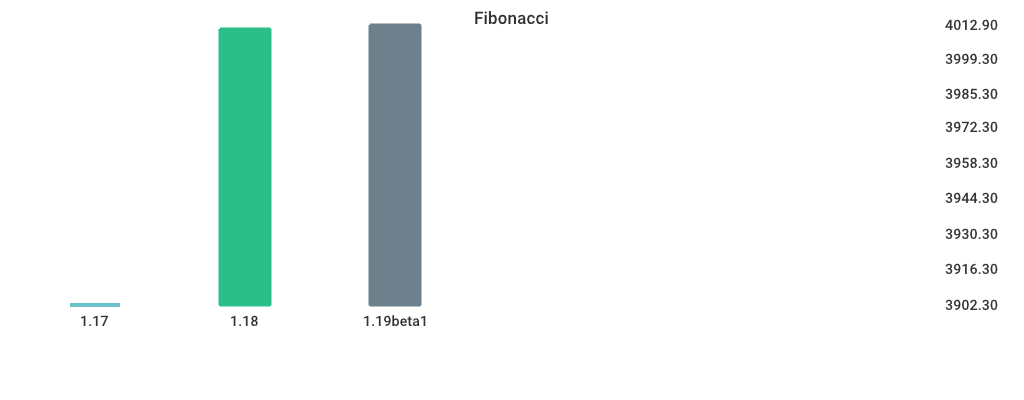
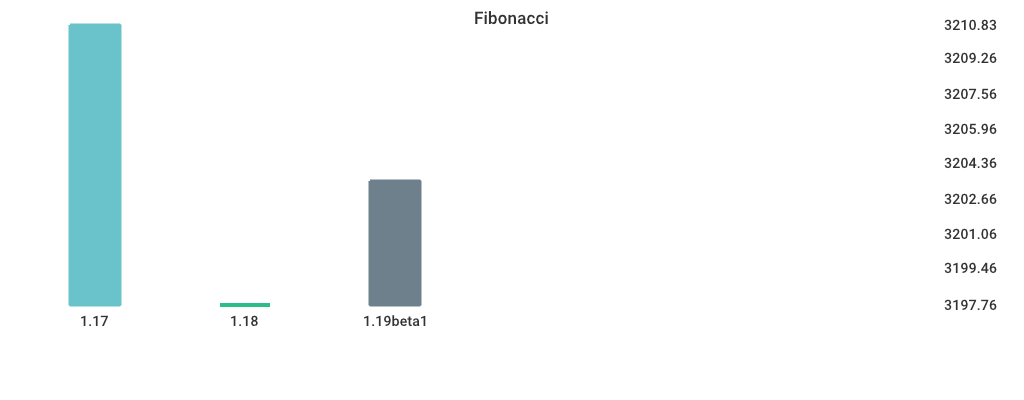
Add upload-artifact

diff --git a/main.go b/main.go
@@ -1,6 +1,7 @@
 package main
 
 import (
+	"bufio"
 	"crypto/sha256"
 	"encoding/hex"
 	"encoding/json"
@@ -152,6 +153,18 @@ func main() {
 		panic(err)
 	}
 
+	// Cleanup the results directory.
+	if _, err := os.Stat(RESULTS_DIR); err == nil {
+		err = os.RemoveAll(RESULTS_DIR)
+		if err != nil {
+			panic(err)
+		}
+	}
+	err = os.MkdirAll(RESULTS_DIR, 0755)
+	if err != nil {
+		panic(err)
+	}
+
 	results := map[string]BenchmarkResult{}
 
 	for _, list := range lists {
@@ -209,9 +222,16 @@ func main() {
 				buildTimes = append(buildTimes, buildTime)
 			}
 
+			resultsFile, err := os.Create(filepath.Join(RESULTS_DIR, HashFileName(benchmarkName)+"_"+version+".txt"))
+			if err != nil {
+				panic(err)
+			}
+			rw := bufio.NewWriter(resultsFile)
+
 			// Run the program.
 			var runTimes []time.Duration
 			for i := 0; i < config.Itercount; i++ {
+				fmt.Fprintf(rw, "Benchmark%s\t", benchmarkName)
 				t := time.Now()
 				cmd := exec.Command(program)
 				cmd.Stdout = os.Stdout
@@ -221,7 +241,12 @@ func main() {
 					panic(err)
 				}
 				runTime := time.Since(t)
+				sysT := cmd.ProcessState.SystemTime()
+				userT := cmd.ProcessState.UserTime()
 				runTimes = append(runTimes, runTime)
+				fmt.Fprintf(rw, "1\t%d ns/op", runTime.Nanoseconds())
+				fmt.Fprintf(rw, "\t%d user-ns/op", userT.Nanoseconds())
+				fmt.Fprintf(rw, "\t%d sys-ns/op\n", sysT.Nanoseconds())
 			}
 
 			// Print the results.
@@ -255,6 +280,8 @@ func main() {
 			}
 			results[benchmarkName].BuildTimes[version] = buildTimesFloat
 			results[benchmarkName].RunTimes[version] = runTimesFloat
+			rw.Flush()
+			resultsFile.Close()
 		}
 	}
 
@@ -283,18 +310,6 @@ func main() {
 	}
 
 	Cleanup()
-
-	// Cleanup the results directory.
-	if _, err := os.Stat(RESULTS_DIR); err == nil {
-		err = os.RemoveAll(RESULTS_DIR)
-		if err != nil {
-			panic(err)
-		}
-	}
-	err = os.MkdirAll(RESULTS_DIR, 0755)
-	if err != nil {
-		panic(err)
-	}
 
 	// Make a plot of the results.
 	for benchname, result := range results {
@@ -344,7 +359,7 @@ func main() {
 	defer f.Close()
 	fmt.Fprintf(f, "# Benchmarks\n\n")
 	// CPU Info
-	fmt.Fprintf(f, "## CPU Info\n\n")
+	fmt.Fprintf(f, "## Environment\n\n")
 	fmt.Fprintf(f, "NumCPU: %d\n", runtime.NumCPU())
 	fmt.Fprintf(f, "Arch: %s\n", runtime.GOARCH)
 	fmt.Fprintf(f, "OS: %s\n", runtime.GOOS)

diff --git a/results/results.md b/results/results.md
@@ -1,75 +1,27 @@
 # Benchmarks
 
-## CPU Info
+## Environment
 
-NumCPU: 2
+NumCPU: 8
 Arch: amd64
-OS: linux
+OS: windows
 Version: go1.18.3
 Itercount: 10
 ### CPU 0
 
-Model: Intel(R) Xeon(R) Platinum 8272CL CPU @ 2.60GHz
-Cores: 1
-Mhz: 2593.907000
-CacheSize: 36608
-Microcode: 0xffffffff
-
-### CPU 1
-
-Model: Intel(R) Xeon(R) Platinum 8272CL CPU @ 2.60GHz
-Cores: 1
-Mhz: 2593.907000
-CacheSize: 36608
-Microcode: 0xffffffff
-
-## MergeSort
-
-| Version | Build Time (ms) | Standard Deviation | Run Time (ms) | Standard Deviation |
-| ------ | ------ | ------ | ------ | ------ |
-| 1.17 | 129.819614 | 3.338043 | 12073.237913 | 142.834718 |
-| 1.18 | 137.941286 | 8.353118 | 11536.469635 | 150.324726 |
-| 1.19beta1 | 282.542988 | 7.661180 | 14094.946709 | 122.967870 |
-
-![MergeSort](./619024e898d5dcaadcf23d3b2f3a22d86c871a7b76284aafd1eb289200c2e49a.png)
-
-## Sort
-
-| Version | Build Time (ms) | Standard Deviation | Run Time (ms) | Standard Deviation |
-| ------ | ------ | ------ | ------ | ------ |
-| 1.17 | 134.858718 | 3.517649 | 3712.481442 | 3.339277 |
-| 1.18 | 139.637633 | 3.943321 | 3573.066056 | 1.125061 |
-| 1.19beta1 | 275.145682 | 12.922005 | 369.611612 | 0.432114 |
-
-![Sort](./bec69036aa27e7fab7d44cad3909477b76631c39ba46fd7841ea71aae7e5a735.png)
-
-## switch-case
-
-| Version | Build Time (ms) | Standard Deviation | Run Time (ms) | Standard Deviation |
-| ------ | ------ | ------ | ------ | ------ |
-| 1.17 | 193.304819 | 3.702105 | 5201.271532 | 2.697496 |
-| 1.18 | 197.155397 | 4.098484 | 5723.562771 | 2.285060 |
-| 1.19beta1 | 333.342906 | 4.113717 | 3272.027380 | 0.604245 |
-
-![switch-case](./1af1469d75e77ed39c58041d45b37b329137876f59fb4c03529ebb65c78b40aa.png)
-
-## alloc_1.5k
-
-| Version | Build Time (ms) | Standard Deviation | Run Time (ms) | Standard Deviation |
-| ------ | ------ | ------ | ------ | ------ |
-| 1.17 | 130.602540 | 4.543614 | 3174.555205 | 50.825925 |
-| 1.18 | 135.096543 | 5.866101 | 4348.360743 | 1.770363 |
-| 1.19beta1 | 273.128653 | 6.444817 | 4347.478340 | 0.880110 |
-
-![alloc_1.5k](./78691b2f49e91d20e4fc03ba30be4e2828c5acd9ddd58fbf8d3e5b21bed97b8d.png)
+Model: Intel(R) Core(TM) i7-4790K CPU @ 4.00GHz
+Cores: 8
+Mhz: 4001.000000
+CacheSize: 0
+Microcode: 
 
 ## Fibonacci
 
 | Version | Build Time (ms) | Standard Deviation | Run Time (ms) | Standard Deviation |
 | ------ | ------ | ------ | ------ | ------ |
-| 1.17 | 124.035034 | 3.497839 | 3902.296188 | 1.938311 |
-| 1.18 | 127.531948 | 3.636813 | 4011.249149 | 1.047679 |
-| 1.19beta1 | 275.046732 | 5.527460 | 4012.903111 | 1.428728 |
+| 1.17 | 1199.963550 | 74.015515 | 3210.825850 | 55.136208 |
+| 1.18 | 1194.551300 | 40.685614 | 3197.762150 | 48.393861 |
+| 1.19beta1 | 1850.572350 | 18.395682 | 3203.531350 | 36.587768 |
 
 ![Fibonacci](./016be0f0bc3aacaadb309d0adc2b1024980e3775065236c79ab0d186380b4f83.png)
 
